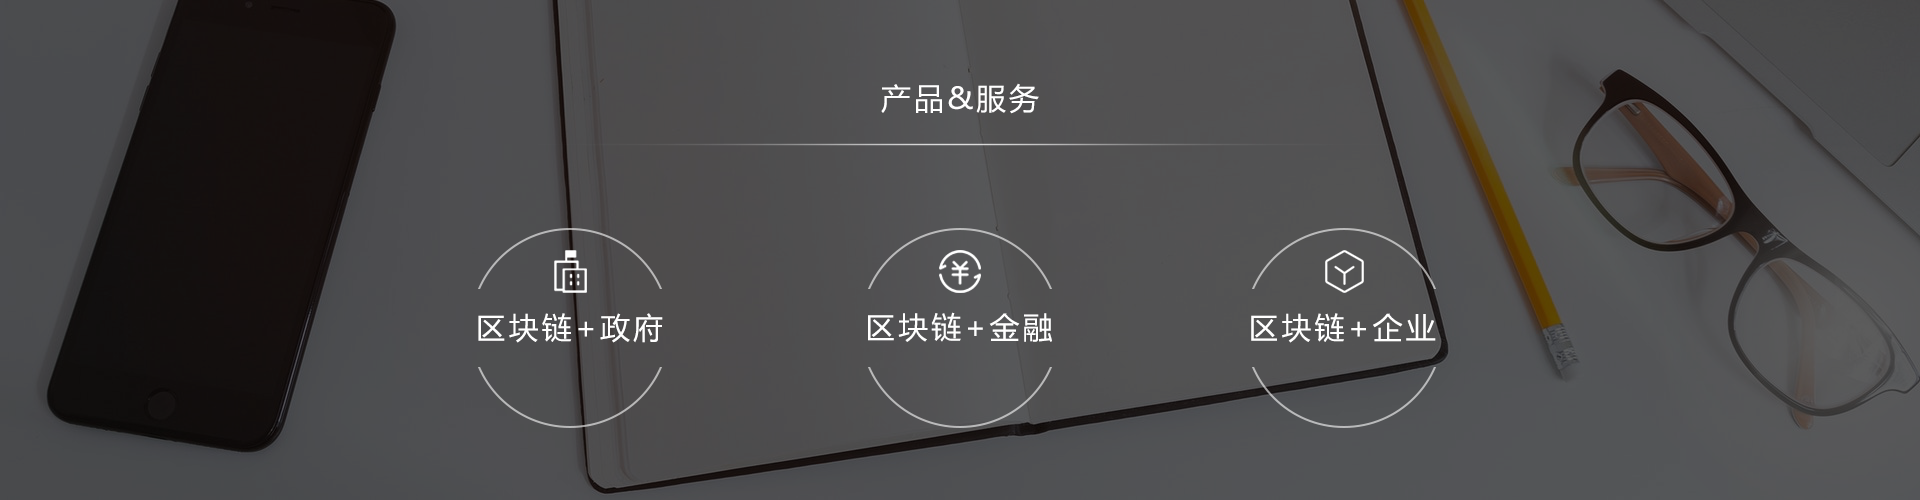
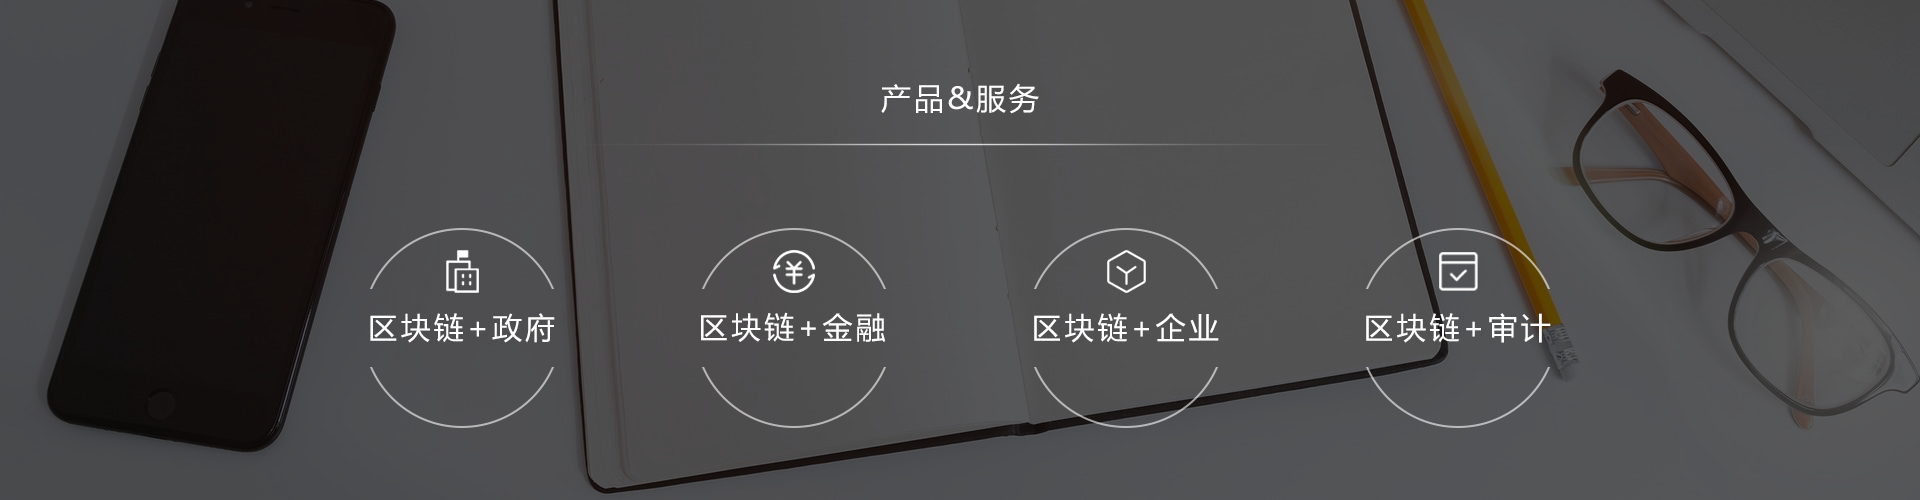
0104提交

diff --git a/cdtrust_html/pages/page_Serve.html b/cdtrust_html/pages/page_Serve.html
@@ -49,48 +49,43 @@
             </p>
             <div class="product-intro">
                 <div class="product-detail">
-                    <p class="product-name no-margin">区块链BAAS管理平台</p>
-                    <p class="product-con no-margin">外接企业尽调、信息核验、企业画像、个人征信信息等优秀数据源</p>
+                    <p class="product-name no-margin">区块链COBAAS管理平台</p>
+                    <p class="product-con no-margin" title="区块链COBaaS平台面向企业，旨在为企业提供高性能、高可用、高安全的区块链技术平台服务">区块链COBaaS平台面向企业，旨在为企业提供高性能、高可用、高安全的区块链技术平台服务</p>
 
                 </div>
                 <div class="product-detail">
                      <p class="product-name no-margin">区块链Token管理系统</p>
-                    <p class="product-con no-margin">外接企业尽调、信息核验、企业画像、个人征信信息等优秀数据源</p>
+                    <p class="product-con no-margin" title="提高联盟链信息共享交换、积分和权益流转结算，提升联盟内部信息价值；构建联盟可信Token生态，提高运营效率和安全性">提高联盟链信息共享交换、积分和权益流转结算，提升联盟内部信息价值；构建联盟可信Token生态，提高运营效率和安全性</p>
 
                 </div>
                 <div class="product-detail">
                      <p class="product-name no-margin">数据脱敏系统</p>
-                    <p class="product-con no-margin">外接企业尽调、信息核验、企业画像、个人征信信息等优秀数据源</p>
+                    <p class="product-con no-margin" title="大数据应用场景之前的最后一道工序，链接大数据与区块链的打开通道。">大数据应用场景之前的最后一道工序，链接大数据与区块链的打开通道。</p>
 
                 </div>
                 <div class="product-detail">
-                     <p class="product-name no-margin">区块链用户管理系统</p>
-                    <p class="product-con no-margin">外接企业尽调、信息核验、企业画像、个人征信信息等优秀数据源</p>
+                     <p class="product-name no-margin">数信1.0</p>
+                    <p class="product-con no-margin" title="外接企业尽调、信息核验、企业画像、个人征信信息等优秀数据源，以区块链助力数据可信流通。 ">外接企业尽调、信息核验、企业画像、个人征信信息等优秀数据源，以区块链助力数据可信流通。</p>
 
                 </div>
                 <div class="product-detail">
-                     <p class="product-name no-margin">区块链用户钱包</p>
-                    <p class="product-con no-margin">外接企业尽调、信息核验、企业画像、个人征信信息等优秀数据源</p>
+                     <p class="product-name no-margin">数信3.0</p>
+                    <p class="product-con no-margin" title="区块链数据价值流通体系，Token辅助数据价值变现，数据价值管理新生态">区块链数据价值流通体系，Token辅助数据价值变现，数据价值管理新生态</p>
 
                 </div>
                 <div class="product-detail">
-                     <p class="product-name no-margin">数信平台</p>
-                    <p class="product-con no-margin">外接企业尽调、信息核验、企业画像、个人征信信息等优秀数据源</p>
-
-                </div>
-                <div class="product-detail">
-                     <p class="product-name no-margin">DBTS</p>
-                    <p class="product-con no-margin">外接企业尽调、信息核验、企业画像、个人征信信息等优秀数据源</p>
+                     <p class="product-name no-margin">DCFS区块链分布式文件系统</p>
+                    <p class="product-con no-margin" title="基于区块链的分布式文件系统，实现联盟链环境下的区块链存储层，为大型集团企业或企业联盟内部数据共享提供可行工具，
+                    从而营造安全可信的数据共享环境，促进大型集团企业或企业联盟数据共建共享生态的形成。">基于区块链的分布式文件系统，实现联盟链环境下的区块链存储层，为大型集团企业或企业联盟内部数据共享提供可行工具，
+                        从而营造安全可信的数据共享环境，促进大型集团企业或企业联盟数据共建共享生态的形成。</p>
 
                 </div>
             </div>
 
         </div>
-        <div class="empty-box">
-
-        </div>
+        
     </article>
-    <footer class="footer">
+    <footer class="footer" style="margin-top: 50px;">
         <div class="footer-box">
             <div class="footer-div">
                 <div class="footer-nav-list">

diff --git a/cdtrust_html/pages/page_Plan.html b/cdtrust_html/pages/page_Plan.html
@@ -36,11 +36,21 @@
         </div>
     </header>
     <article class="content">
-        <div class="banner-sol banner-sol-bg"></div>
+        <div class="banner-sol banner-sol-bg">
+            <div class="center-banner-pro">
+                <p class="product-title">上港集团—港运物流服务联盟链</p>
+                <p class="product-content">
+                    上海国际港务（集团）股份有限公司（简称：“上港集团”），主营业
+                    务分四大板块，即：集装箱码头业务、散杂货码头业务、港口物流业务
+                    和港口服务业务目前已形成了包括码头装卸、仓储堆存、航运、陆运
+                    代理等服务在内的港口物流产业
+                </p>
+            </div>
+        </div>
         <div class="content_detail mt_none">
             <p class="product_show">
-                <img src="https://www.innisfree.cn/cn_resources/images/layout/161227_check.png" alt="" class="benben-icon">
-                <span class="show mr-eng">
+                <img src="../images/bass-note.png" alt="" class="benben-icon">
+                <span class="show small-mr">
                     背景与挑战
                 </span>
                 <span class="show-engglish">
@@ -67,8 +77,8 @@
                 </ul>
             </div>
             <p class="product_show">
-                <img src="https://www.innisfree.cn/cn_resources/images/layout/161227_check.png" alt="" class="benben-icon">
-                <span class="show mr-eng">
+                <img src="../images/bass-note.png" alt="" class="benben-icon">
+                <span class="show small-mr">
                     解决方案
                 </span>
                 <span class="show-engglish">

diff --git a/cdtrust_html/css/index.css b/cdtrust_html/css/index.css
@@ -1318,15 +1318,18 @@ body {
 }
 .bass-circle{
     width: 100%;
-    height: 742px;
+    height: 447px;
     background-color: #eee;
+    box-sizing: border-box;
+    padding-top: 22px;
+    padding-bottom: 45px;
 }
 .center-bass-circle{
-    width:1200px;
-    height: 742px;
+    width:720px;
+    height:380px;
     margin:0 auto;
     background: url(../images/bass-circle.png) no-repeat center center;
-
+    background-size: 100% 100%;
 }
 .center-bass-man{
     width: 100%;
@@ -1342,8 +1345,8 @@ body {
 }
 .center-partner ul li{
     width: 100%;
-    height: 140px;
-    padding:30px 0px 30px 30px;
+    height: 100px;
+    padding:20px;
     box-sizing:border-box;
     background-color: #fff;
     opacity: 0.8;
@@ -1351,12 +1354,12 @@ body {
 }
 .bass-title{
     color:#333;
-    font-size:24px;
-    margin-bottom: 19px;
+    font-size:20px;
+    margin-bottom: 10px;
 }
 .bass-title-int{
     color:#666;
-    font-size:18px;
+    font-size:16px;
 }
 .news-look{
     width: 100%;
@@ -1509,4 +1512,32 @@ body {
 }
 .center-height{
     height: 500px;
+}
+
+/* 修改plan页面 */
+.center-banner-pro{
+    width: 850px;
+    height: 500px;
+    box-sizing:border-box;
+    padding:89px;
+    margin:0 auto;
+    
+}
+.product-title{
+    text-align: center;
+    font-size:30px;
+    color:#fff;
+    margin-bottom: 50px;
+}
+.product-content{
+    font-size:18px;
+    color:#fff;
+    line-height:27px;
+    text-align: center;
+}
+.product-bass-title{
+    font-size:30px;
+    color:#fff;
+    text-align: center;
+    margin-top: 210px;
 }

diff --git a/cdtrust_html/pages/page_Bass.html b/cdtrust_html/pages/page_Bass.html
@@ -36,7 +36,12 @@
         </div>
     </header>
     <article class="content">
-        <div class="banner-sol banner-sol-bg"></div>
+        <div class="banner-sol banner-sol-bg">
+                
+               <p class="product-bass-title">COBaaS平台</p>
+                
+           
+        </div>
         <div class="bass-intro">
             <div class="bass-bgc-text">
                      &emsp;&emsp;共识数信区块链COBaaS平台是基于主流区块链技术的企业级服务平台，帮助用户快速构建稳定、安全的生产级区块链环境。减少区块链部署、运维、管理、应用开发等各方面的技术门槛，使用户专注于自身核心业务的生产与创新，并实现业务快速上链。
@@ -55,7 +60,7 @@
         </div>
         <div class="bass-circle">
                 <div class="center-bass-circle">
-
+                    
                 </div>
         </div>
         <div class="content_detail mt_none">

diff --git a/cdtrust_html/pages/page_trends.html b/cdtrust_html/pages/page_trends.html
@@ -111,15 +111,14 @@
                         </div>
                     </li>
                 </ul>
-                <!-- <a class="search-more" href="" >查看更多</a> -->
-                <div>
+                <!-- <div>
                     <input type="button" class="btn-more" value="查看更多" style="margin-bottom: 200px;margin-top: 40px;margin-left: 535px;">
-                </div>
+                </div> -->
             </div>
         </div>
 
     </article>
-    <footer class="footer">
+    <footer class="footer" style="margin-top:50px;">
         <div class="footer-box">
             <div class="footer-div">
                 <div class="footer-nav-list">

diff --git a/cdtrust_html/pages/page_News.html b/cdtrust_html/pages/page_News.html
@@ -36,7 +36,9 @@
         </div>
     </header>
     <article class="content">
-        <div class="banner-sol banner-sol-bg"></div>
+        <div class="banner-sol banner-sol-bg">
+                <p class="product-bass-title">共识数信正式发布区块链积分管理系统</p>
+        </div>
         <div class="content_detail mt_none content-pad">
             <div class="news-intro">
                 <div class="news-show fl">
